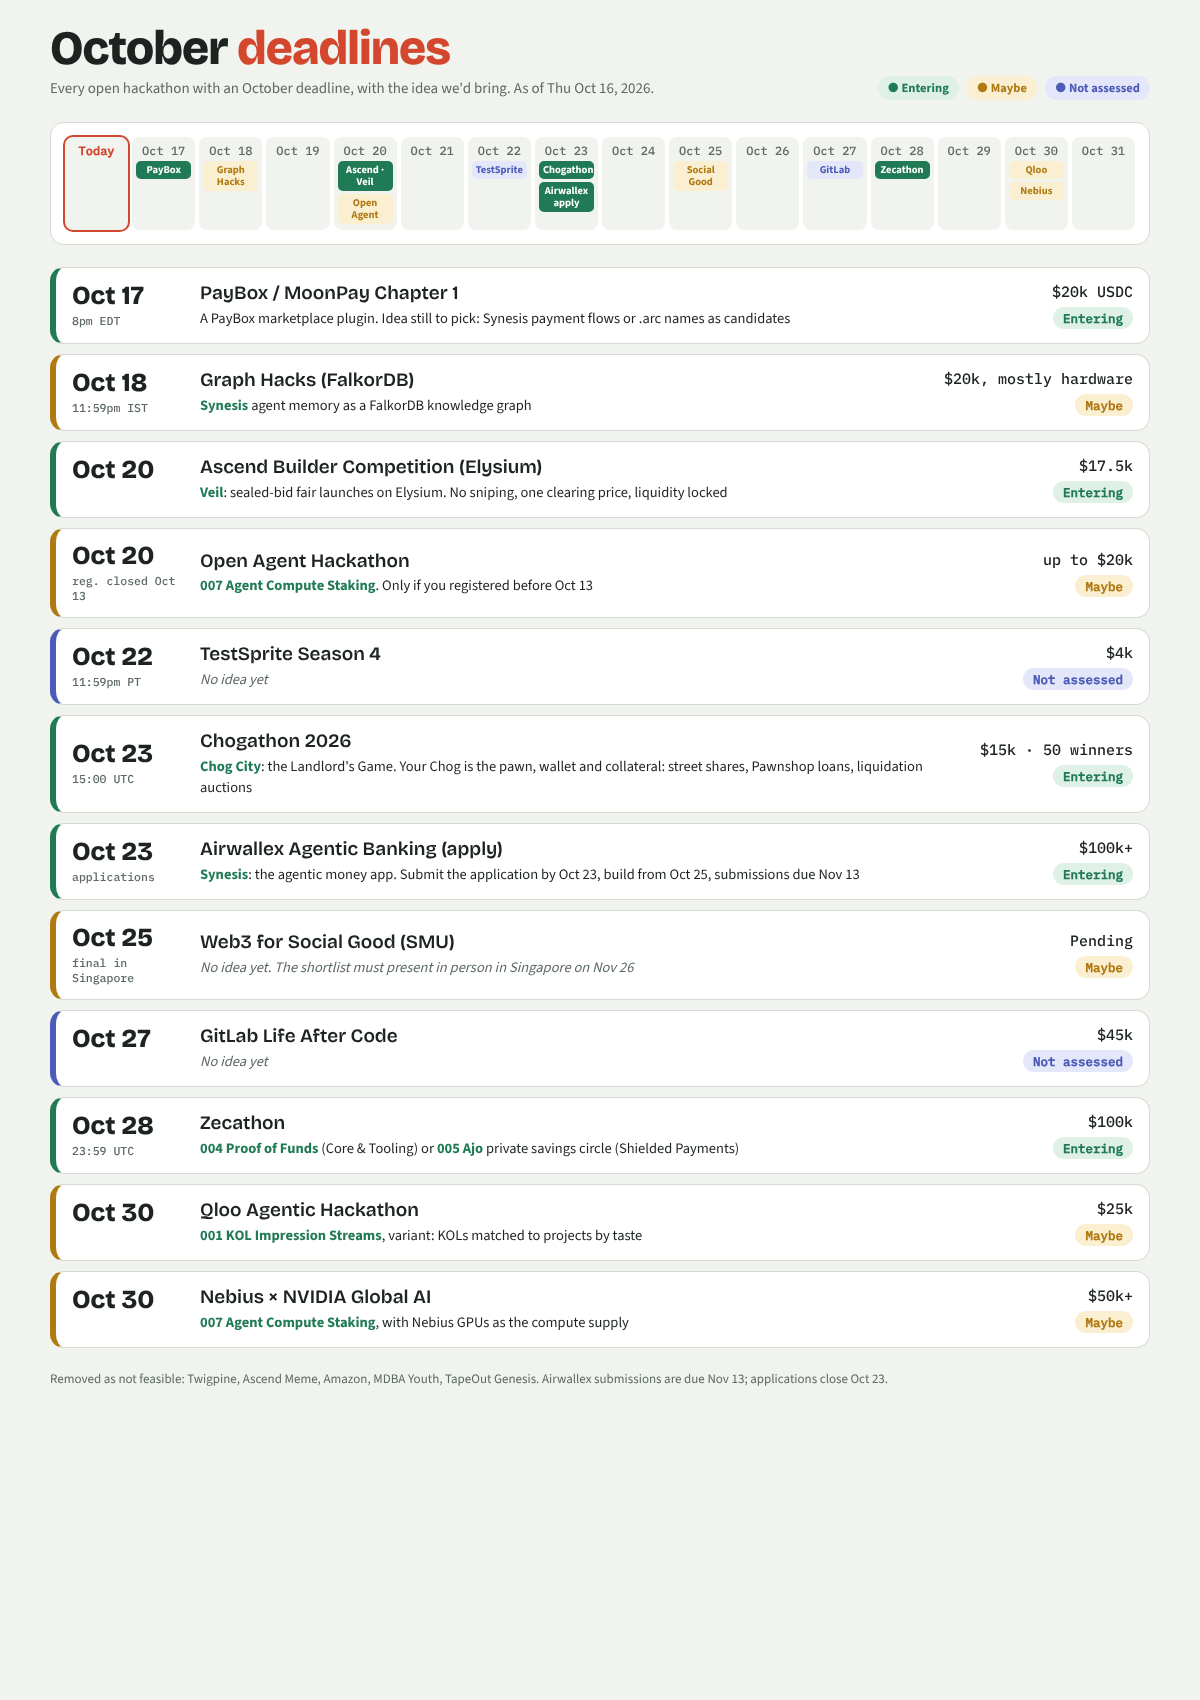
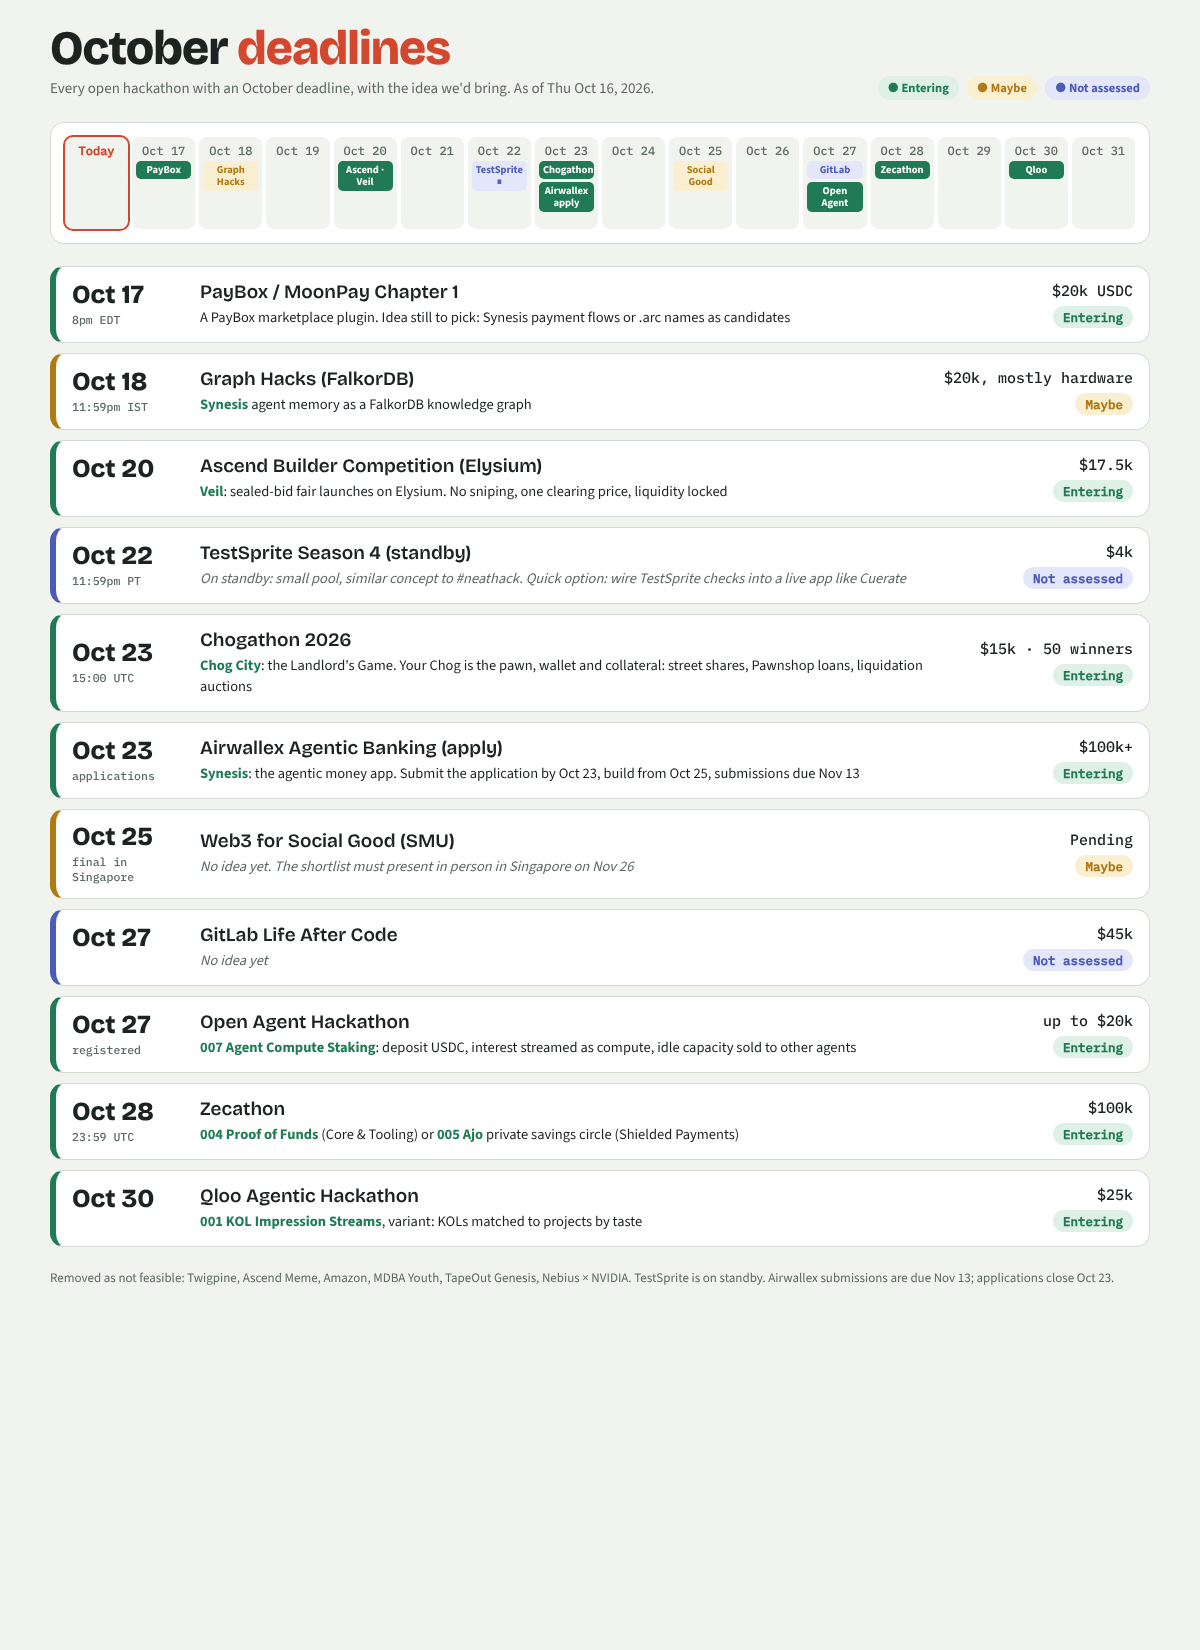
Rankings: drop Nebius, Open Agent registered (Oct 27), Qloo entering, TestSprite on standby; refresh October board
Claude-Session: https://claude.ai/code/session_01F77xPm6nQrBC9knCdVtozW

diff --git a/hackathons/october-board.html b/hackathons/october-board.html
@@ -73,7 +73,7 @@ footer { color: var(--muted); font-size: 13px; }
 
   <div class="cards" id="cards"></div>
 
-  <footer>Removed as not feasible: Twigpine, Ascend Meme, Amazon, MDBA Youth, TapeOut Genesis. Airwallex submissions are due Nov 13; applications close Oct 23.</footer>
+  <footer>Removed as not feasible: Twigpine, Ascend Meme, Amazon, MDBA Youth, TapeOut Genesis, Nebius × NVIDIA. TestSprite is on standby. Airwallex submissions are due Nov 13; applications close Oct 23.</footer>
 </div>
 
 <script>
@@ -81,15 +81,14 @@ const ITEMS = [
   { d: 17, when: "Oct 17", time: "8pm EDT", name: "PayBox / MoonPay Chapter 1", short: "PayBox", prize: "$20k USDC", s: "go", idea: "A PayBox marketplace plugin. Idea still to pick: Synesis payment flows or .arc names as candidates", tbd: true },
   { d: 18, when: "Oct 18", time: "11:59pm IST", name: "Graph Hacks (FalkorDB)", short: "Graph Hacks", prize: "$20k, mostly hardware", s: "maybe", idea: "<b>Synesis</b> agent memory as a FalkorDB knowledge graph" },
   { d: 20, when: "Oct 20", time: "", name: "Ascend Builder Competition (Elysium)", short: "Ascend · Veil", prize: "$17.5k", s: "go", idea: "<b>Veil</b>: sealed-bid fair launches on Elysium. No sniping, one clearing price, liquidity locked" },
-  { d: 20, when: "Oct 20", time: "reg. closed Oct 13", name: "Open Agent Hackathon", short: "Open Agent", prize: "up to $20k", s: "maybe", idea: "<b>007 Agent Compute Staking</b>. Only if you registered before Oct 13" },
-  { d: 22, when: "Oct 22", time: "11:59pm PT", name: "TestSprite Season 4", short: "TestSprite", prize: "$4k", s: "new", idea: "No idea yet", none: true },
+  { d: 22, when: "Oct 22", time: "11:59pm PT", name: "TestSprite Season 4 (standby)", short: "TestSprite ⏸", prize: "$4k", s: "new", idea: "On standby: small pool, similar concept to #neathack. Quick option: wire TestSprite checks into a live app like Cuerate", none: true },
   { d: 23, when: "Oct 23", time: "15:00 UTC", name: "Chogathon 2026", short: "Chogathon", prize: "$15k · 50 winners", s: "go", idea: "<b>Chog City</b>: the Landlord's Game. Your Chog is the pawn, wallet and collateral: street shares, Pawnshop loans, liquidation auctions" },
   { d: 23, when: "Oct 23", time: "applications", name: "Airwallex Agentic Banking (apply)", short: "Airwallex apply", prize: "$100k+", s: "go", idea: "<b>Synesis</b>: the agentic money app. Submit the application by Oct 23, build from Oct 25, submissions due Nov 13" },
   { d: 25, when: "Oct 25", time: "final in Singapore", name: "Web3 for Social Good (SMU)", short: "Social Good", prize: "Pending", s: "maybe", idea: "No idea yet. The shortlist must present in person in Singapore on Nov 26", none: true },
   { d: 27, when: "Oct 27", time: "", name: "GitLab Life After Code", short: "GitLab", prize: "$45k", s: "new", idea: "No idea yet", none: true },
+  { d: 27, when: "Oct 27", time: "registered", name: "Open Agent Hackathon", short: "Open Agent", prize: "up to $20k", s: "go", idea: "<b>007 Agent Compute Staking</b>: deposit USDC, interest streamed as compute, idle capacity sold to other agents" },
   { d: 28, when: "Oct 28", time: "23:59 UTC", name: "Zecathon", short: "Zecathon", prize: "$100k", s: "go", idea: "<b>004 Proof of Funds</b> (Core & Tooling) or <b>005 Ajo</b> private savings circle (Shielded Payments)" },
-  { d: 30, when: "Oct 30", time: "", name: "Qloo Agentic Hackathon", short: "Qloo", prize: "$25k", s: "maybe", idea: "<b>001 KOL Impression Streams</b>, variant: KOLs matched to projects by taste" },
-  { d: 30, when: "Oct 30", time: "", name: "Nebius × NVIDIA Global AI", short: "Nebius", prize: "$50k+", s: "maybe", idea: "<b>007 Agent Compute Staking</b>, with Nebius GPUs as the compute supply" },
+  { d: 30, when: "Oct 30", time: "", name: "Qloo Agentic Hackathon", short: "Qloo", prize: "$25k", s: "go", idea: "<b>001 KOL Impression Streams</b>, variant: KOLs matched to projects by taste" },
 ];
 const days = document.getElementById("days");
 let html = "";

diff --git a/hackathons/OPEN-BY-DEADLINE.md b/hackathons/OPEN-BY-DEADLINE.md
@@ -16,25 +16,24 @@
 | 1 | Oct 17, 8pm EDT (runs Oct 16 8am to Oct 17 8pm) | PayBox / MoonPay Hackathons Chapter 1 | $20k USDC (1st $5k) | 🎯 **entering** (36-hour sprint) | ✔ checked | https://developer.paybox.sh · https://x.com/PayBox/status/2110461635836170547 |
 | 2 | Oct 18, 11:59pm IST | Graph Hacks (FalkorDB, WeMakeDevs) | $20k, mostly hardware | 🟡 | repo + roundup | https://www.wemakedevs.org/hackathons/falkordb · https://x.com/WeMakeDevs/status/2110324168336281712 |
 | 3 | Oct 20 | Ascend Builder Competition (Elysium) | $17.5k (10k / 5k / 2.5k) | 🎯 Veil ([008](../ideas/008-veil-elysium.md)) | roundup | https://x.com/AscendLaunch/status/2106189953210454331 (submit in Discord) |
-| 4 | Oct 20 (build ends; registration closed Oct 13) | Open Agent Hackathon | up to $20k | 🟡 | repo | https://hackathon.genai.works/ |
-| 5 | Oct 22, 11:59pm PT | TestSprite Season 4 | $4k ($3k projects + $1k CLI bonus) | 🆕 | roundup | https://x.com/Test_Sprite/status/2108346727921295810 |
-| 6 | **Oct 23, 15:00 UTC** | **Chogathon 2026** | $15k, 50 winners | **🎯 registered** | ✔ checked | https://chogathon.chog.xyz/ |
-| 7 | Oct 25 (submissions) · shortlist presents in person in Singapore on Nov 26 | Web3 for Social Good (SMU) | Prize "Pending" | 🟡 back in | repo (verified Oct 4) | https://dorahacks.io/hackathon/web3-social-good-2026/detail |
-| 8 | Oct 27 | GitLab Life After Code | $45k | 🆕 | roundup (page returned 403) | https://gitlab-transcend.devpost.com · https://x.com/gitlab/status/2107897027791114291 |
+| 4 | Oct 22, 11:59pm PT | TestSprite Season 4 | $4k ($3k projects + $1k CLI bonus) | ⏸ standby: small pool, similar to #neathack | roundup | https://www.testsprite.com/hackathon-s4 |
+| 5 | **Oct 23, 15:00 UTC** | **Chogathon 2026** | $15k, 50 winners | **🎯 registered** | ✔ checked | https://chogathon.chog.xyz/ |
+| 6 | Oct 25 (submissions) · shortlist presents in person in Singapore on Nov 26 | Web3 for Social Good (SMU) | Prize "Pending" | 🟡 back in | repo (verified Oct 4) | https://dorahacks.io/hackathon/web3-social-good-2026/detail |
+| 7 | Oct 27 | GitLab Life After Code | $45k | 🆕 | roundup (page returned 403) | https://gitlab-transcend.devpost.com · https://x.com/gitlab/status/2107897027791114291 |
+| 8 | **Oct 27** (registration open until Oct 22) | **Open Agent Hackathon** | up to $20k | 🎯 registered (007 Agent Compute Staking) | user-confirmed Oct 16 | https://hackathon.genai.works/ |
 | 9 | **Oct 28, 23:59 UTC** | **Zecathon** | $100k | 🎯 | ✔ checked | https://thezecathon.com/ |
-| 10 | Oct 30 | Qloo Agentic Hackathon | $25k | 🟡 | repo | https://qloo.devpost.com/ |
-| 11 | Oct 30 | Nebius × NVIDIA Global AI | $50k+ | 🟡 | repo | https://nebiusglobalaihackathon.devpost.com/ |
-| 12 | **~Nov 1** | **BLI Legal Tech Hackathon 2** | $20k headline | 🎯 | repo | https://dorahacks.io/hackathon/legal-hack-2026/detail |
-| 13 | **Nov 2, 11:45am ET** | YouCam API Skin AI & eCommerce VTO Hackathon (Perfect Corp, Devpost) | $6k ($2.5k / $1k / $500, plus $1k Women in Tech and $1k Rising Star) | 🆕 🟡 | ✔ checked | https://youcam-api-skin-ai-ecommerce.devpost.com/ · [press release](https://www.businesswire.com/news/home/20261013363370/en/Perfect-Corp.s-YouCam-API-Hackathon-Is-Back-Now-Focused-on-eCommerce-with-a-%246000-Prize-Pool) |
-| 14 | Nov 9, 09:00 GMT | Celo Agents on Open Rails | $5k across 4 tracks | 🆕 | ✔ checked | https://loops.house/agents-on-open-rails · https://x.com/CeloDevs/status/2108161299838550486 |
-| 15 | Nov 11 | Nimiq Mini Apps Competition, Cycle 3 | $17k USDC | 🆕 | roundup | https://x.com/miniappscomp/status/2110403290328449276 · https://x.com/nimiq/status/2110400145028170212 |
-| 16 | Nov 11 | Ryo-chan Virtual Hackathon | $15k in tokens | 🟡 | repo | https://ryobuild.com/ |
-| 17 | **Nov 12, 3:00pm EST** | **PayPal + AI: "Build What's Next"** (Devpost) | $60k+ per PayPal, $67.5k on Devpost | 🟡 back in, confirmed real | ✔ checked | https://developer.paypal.com/community/blog/PayPal_AI_Hackathon |
-| 18 | **Nov 13 (submissions)** · build from Oct 25 · applications closed Oct 23 | **Airwallex Agentic Banking** | $100k headline (prizes and credits listed add up to $156k) | 🎯 registered (Synesis) | ✔ checked | https://airwallex.hackerearth.com · https://x.com/airwallex/status/2107148620617420932 |
-| 19 | Nov 14 (registration closes Nov 5) | Lexsi AI Safety & Alignment | $30k+ in prizes and credits | 🆕 | ✔ checked | https://hackathon.lexsi.ai · https://x.com/Lexsi_labs/status/2109553969202921975 |
-| 20 | Nov 30 (repo) or Dec 10 (roundup) | QIE Hackathon 3.0 | $17k | 🟡 | repo + roundup, dates conflict | https://hackathon.qie.digital · https://x.com/qieblockchain/status/2098645510848410088 |
-| 21 | **Dec 7, 23:59 UTC** (provisional) | X Layer TapeOut Accelerate (OKX / X Layer × TapeOut) | 100k USDT (1 × 20k, 5 × 10k, 5 × 6k), paid in milestone stages | 🆕 🟡 | ✔ checked | https://web3.okx.com/xlayer/build-x-series · [OKX Wallet post](https://x.com/OKXWallet_CN/status/2110923153388273991) |
-| 22 | Rolling | Circle Grants | up to $100k USDC | 🎯 | repo | https://www.circle.com/grant |
+| 10 | Oct 30 | Qloo Agentic Hackathon | $25k | 🎯 001 variant (taste-matched KOLs) | repo | https://qloo.devpost.com/ |
+| 11 | **~Nov 1** | **BLI Legal Tech Hackathon 2** | $20k headline | 🎯 | repo | https://dorahacks.io/hackathon/legal-hack-2026/detail |
+| 12 | **Nov 2, 11:45am ET** | YouCam API Skin AI & eCommerce VTO Hackathon (Perfect Corp, Devpost) | $6k ($2.5k / $1k / $500, plus $1k Women in Tech and $1k Rising Star) | 🆕 🟡 | ✔ checked | https://youcam-api-skin-ai-ecommerce.devpost.com/ · [press release](https://www.businesswire.com/news/home/20261013363370/en/Perfect-Corp.s-YouCam-API-Hackathon-Is-Back-Now-Focused-on-eCommerce-with-a-%246000-Prize-Pool) |
+| 13 | Nov 9, 09:00 GMT | Celo Agents on Open Rails | $5k across 4 tracks | 🆕 | ✔ checked | https://loops.house/agents-on-open-rails · https://x.com/CeloDevs/status/2108161299838550486 |
+| 14 | Nov 11 | Nimiq Mini Apps Competition, Cycle 3 | $17k USDC | 🆕 | roundup | https://x.com/miniappscomp/status/2110403290328449276 · https://x.com/nimiq/status/2110400145028170212 |
+| 15 | Nov 11 | Ryo-chan Virtual Hackathon | $15k in tokens | 🟡 | repo | https://ryobuild.com/ |
+| 16 | **Nov 12, 3:00pm EST** | **PayPal + AI: "Build What's Next"** (Devpost) | $60k+ per PayPal, $67.5k on Devpost | 🟡 back in, confirmed real | ✔ checked | https://developer.paypal.com/community/blog/PayPal_AI_Hackathon |
+| 17 | **Nov 13 (submissions)** · build from Oct 25 · applications closed Oct 23 | **Airwallex Agentic Banking** | $100k headline (prizes and credits listed add up to $156k) | 🎯 registered (Synesis) | ✔ checked | https://airwallex.hackerearth.com · https://x.com/airwallex/status/2107148620617420932 |
+| 18 | Nov 14 (registration closes Nov 5) | Lexsi AI Safety & Alignment | $30k+ in prizes and credits | 🆕 | ✔ checked | https://hackathon.lexsi.ai · https://x.com/Lexsi_labs/status/2109553969202921975 |
+| 19 | Nov 30 (repo) or Dec 10 (roundup) | QIE Hackathon 3.0 | $17k | 🟡 | repo + roundup, dates conflict | https://hackathon.qie.digital · https://x.com/qieblockchain/status/2098645510848410088 |
+| 20 | **Dec 7, 23:59 UTC** (provisional) | X Layer TapeOut Accelerate (OKX / X Layer × TapeOut) | 100k USDT (1 × 20k, 5 × 10k, 5 × 6k), paid in milestone stages | 🆕 🟡 | ✔ checked | https://web3.okx.com/xlayer/build-x-series · [OKX Wallet post](https://x.com/OKXWallet_CN/status/2110923153388273991) |
+| 21 | Rolling | Circle Grants | up to $100k USDC | 🎯 | repo | https://www.circle.com/grant |
 
 ## In the roundup, deadline not given
 | Hackathon | Prize | Link |
@@ -80,3 +79,4 @@
   - The event is confirmed on PayPal's developer blog. It's online and worldwide, with no fixed tracks.
   - Devpost lists **Nov 12, 3:00pm EST**, about 2,277 participants and $67.5k in prizes.
   - Fits: a fiat variant of 001 (KOL payouts via PayPal), or the Synesis agent paying with PayPal.
+- Nebius × NVIDIA Global AI (Oct 30): ⛔ removed Oct 16

diff --git a/hackathons/TIMELINE.md b/hackathons/TIMELINE.md
@@ -18,7 +18,7 @@ Everything researched on 2026-10-04 (updated 2026-10-15), in deadline order. All
 | **Oct 11, 12:00 UTC** | **BNB Hack: Tokenized Stocks** | $20k + 2 × $2k specials | **003 ETF League** (or 002 Busha for Stocks / weekend spread engine) | ✅ submitted | Ondo / xStocks / bStocks central, BSC mainnet, spot only. Dev-experience report = 25% |
 | **Oct 12, 11:59pm PT** | **Colosseum Crypto World's Fair** | $840k total; Robinhood Chain track 5 × $5k; 20 × $15k standouts | **Kickoff** (+ Monday Open markets as new work) | ✅ submitted | Pre-existing code allowed if disclosed; judged on work since Sep 14. One submission per team |
 | **Oct 13** | **Monad Metropolis** | $250k+ (tracks + ~$81k bounties) | **001 KOL Impression Streams** (Track 03 + CRE, Privy, MetaMask, Nansen, Agora, Aurora bounties) | ✅ submitted | New work since Sep 1. See `2026-10-monad-metropolis/` |
-| Oct 13 (registration) · build Oct 15–20 | Open Agent Hackathon | up to $20k | 007 Agent Compute Staking | 🟡 | Prize detail not public |
+| **Oct 27** (registration until Oct 22) | **Open Agent Hackathon** | up to $20k | 007 Agent Compute Staking | 🎯 registered | |
 | **Oct 14** | **Arc Microgrants Mainnet Challenge** | 20 × $500 USDC | Synesis / Cuerate / `.arc` redeployed on Arc mainnet | ✅ submitted | Rolling review: submit early |
 | Oct 14 (kickoff) | Portaldot Hacker House | $5.2k | — | ⛔ | Not open yet + low prize |
 | **Oct 17, 8pm EDT** | **PayBox / MoonPay Hackathons Chapter 1** | $20k USDC (1st $5k) | TBD (36-hour sprint) | 🎯 | Build a PayBox marketplace plugin. https://developer.paybox.sh |
@@ -28,8 +28,8 @@ Everything researched on 2026-10-04 (updated 2026-10-15), in deadline order. All
 | Oct 23 | Amazon Developer Hackathon | $138k | — | ⛔ | Fire TV / Alexa+ / Ring |
 | Oct 25 | Web3 for Social Good (SMU) | Pending | — | ⛔ | In-person final in Singapore |
 | **Oct 28, 23:59 UTC** | **Zecathon** (Zcash privacy) | $100k: 5 tracks × $15k + $20k grand prize | **004 Proof of Funds** (Core & Tooling) or **005 Ajo** (Shielded Payments) | 🎯 | Code written in window, open source, one submission per account |
-| Oct 30 | Qloo Agentic Hackathon | $25k | 001 variant (taste-matched KOLs) | 🟡 | |
-| Oct 30 | Nebius × NVIDIA Global AI | $50k+ | 007 (Nebius GPUs as compute supply) | 🟡 | |
+| Oct 30 | Qloo Agentic Hackathon | $25k | 001 variant (taste-matched KOLs) | 🎯 | |
+| Oct 30 | Nebius × NVIDIA Global AI | $50k+ | 007 (Nebius GPUs as compute supply) | ⛔ | |
 | Oct 31 | MDBA Youth Blockchain Hackathon | unknown | — | ⛔ | Youth-only |
 | October | TapeOut Genesis Transistor (X Layer) | $14k | — | ⛔ | Token launchpad, not chip design |
 
